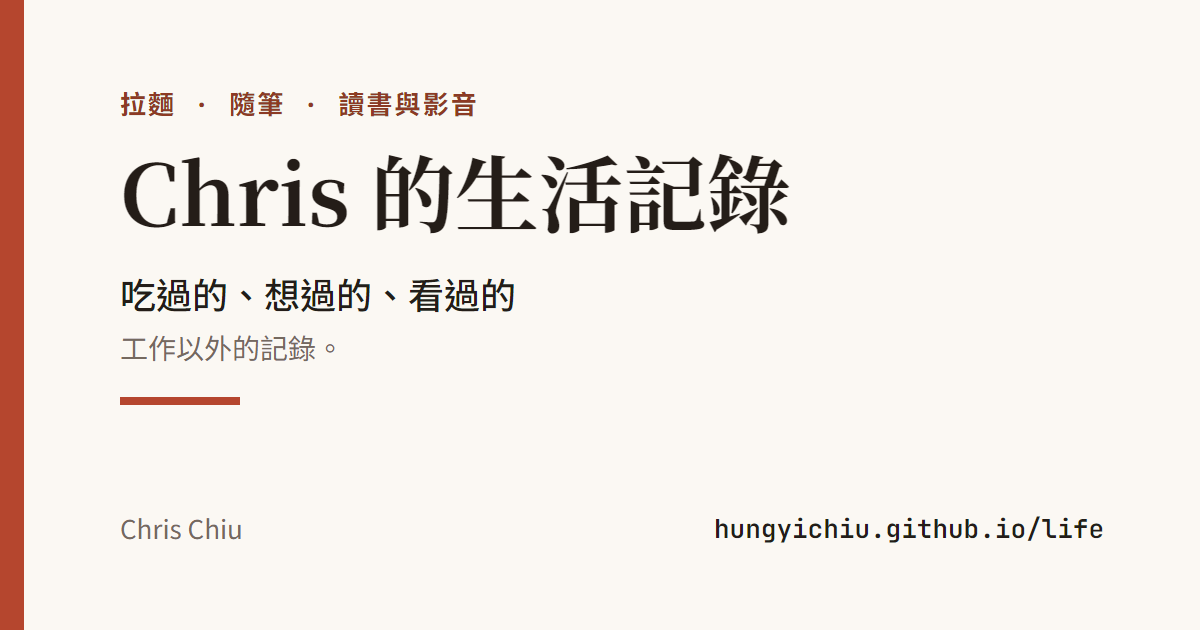
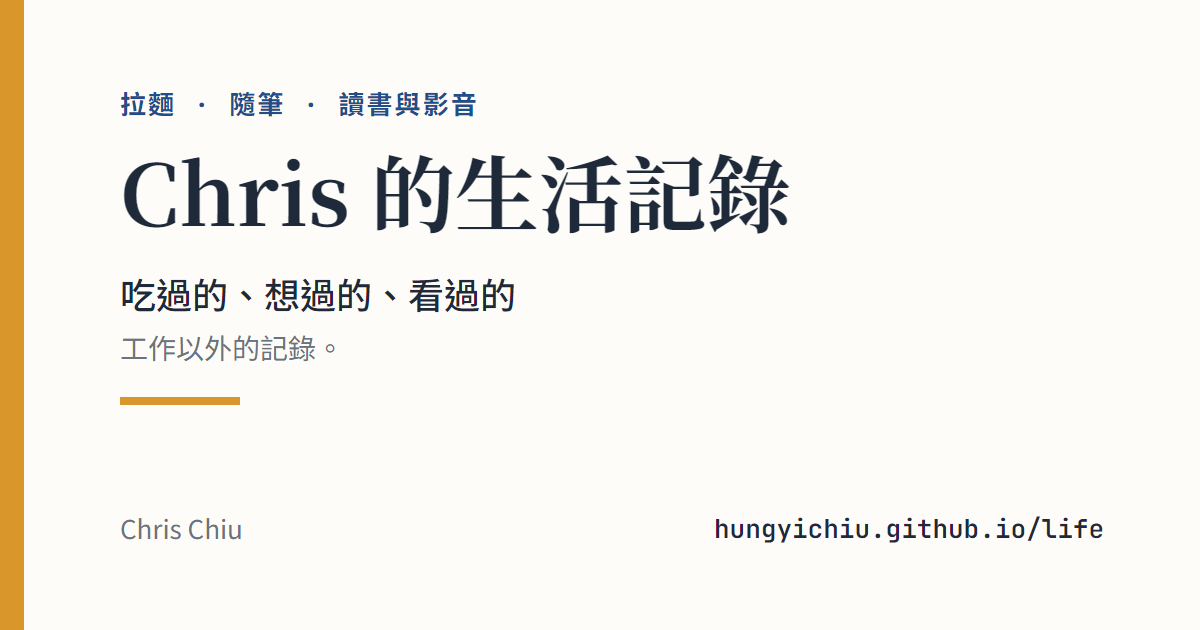
生活站配色改海軍藍＋芥末黃，預覽圖與圖示同步

diff --git a/quartz/util/ogBrand.tsx b/quartz/util/ogBrand.tsx
@@ -1,12 +1,12 @@
 import { SocialImageOptions } from "./og"
 import { getFontSpecificationName } from "./theme"
 
-// 每篇文章的預覽圖（og:image），配色對齊生活站：米白底＋磚紅 #B5462E
+// 每篇文章的預覽圖（og:image），配色對齊生活站：米白底＋海軍藍＋芥末黃
 // satori 只支援 flex 排版，有多個子元素的 div 都要 display: flex
 
-const ORANGE = "#B5462E"
-const ORANGE_TEXT = "#8C3A24"
-const GRAY = "#75695F"
+const ORANGE = "#D9962B"
+const ORANGE_TEXT = "#1E4F8A"
+const GRAY = "#6B7380"
 const SITE_URL = "hungyichiu.github.io/life"
 const AUTHOR = "Chris Chiu"
 
@@ -37,7 +37,7 @@ export const brandImage: SocialImageOptions["imageStructure"] = ({ cfg, title, d
     display: "flex",
     flexDirection: "column" as const,
     justifyContent: "space-between",
-    backgroundColor: "#FBF8F3",
+    backgroundColor: "#FDFCF8",
     borderLeft: `24px solid ${ORANGE}`,
     fontFamily: bodyFont,
   }
@@ -51,11 +51,11 @@ export const brandImage: SocialImageOptions["imageStructure"] = ({ cfg, title, d
             拉麵 · 隨筆 · 讀書與影音
           </div>
           <div
-            style={{ fontFamily: headerFont, fontWeight: 700, fontSize: 84, color: "#241D18", marginTop: 18 }}
+            style={{ fontFamily: headerFont, fontWeight: 700, fontSize: 84, color: "#1E2A3A", marginTop: 18 }}
           >
             {cfg.pageTitle}
           </div>
-          <div style={{ fontSize: 36, fontWeight: 500, color: "#241D18", marginTop: 26 }}>
+          <div style={{ fontSize: 36, fontWeight: 500, color: "#1E2A3A", marginTop: 26 }}>
             吃過的、想過的、看過的
           </div>
           <div style={{ fontSize: 28, color: GRAY, marginTop: 8 }}>工作以外的記錄。</div>
@@ -63,7 +63,7 @@ export const brandImage: SocialImageOptions["imageStructure"] = ({ cfg, title, d
         </div>
         <div style={{ display: "flex", justifyContent: "space-between", fontSize: 26, color: GRAY }}>
           <div>{AUTHOR}</div>
-          <div style={{ color: "#241D18", fontWeight: 500 }}>{SITE_URL}</div>
+          <div style={{ color: "#1E2A3A", fontWeight: 500 }}>{SITE_URL}</div>
         </div>
       </div>
     )
@@ -86,7 +86,7 @@ export const brandImage: SocialImageOptions["imageStructure"] = ({ cfg, title, d
             fontWeight: 700,
             fontSize: titleSize,
             lineHeight: 1.3,
-            color: "#241D18",
+            color: "#1E2A3A",
             marginTop: 20,
             wordBreak: "keep-all",
             lineClamp: 3,
@@ -107,7 +107,7 @@ export const brandImage: SocialImageOptions["imageStructure"] = ({ cfg, title, d
         </div>
       </div>
       <div style={{ display: "flex", justifyContent: "space-between", fontSize: 24, color: GRAY }}>
-        <div style={{ color: "#241D18", fontWeight: 500 }}>{cfg.pageTitle}</div>
+        <div style={{ color: "#1E2A3A", fontWeight: 500 }}>{cfg.pageTitle}</div>
         <div>
           {`${AUTHOR} · ${SITE_URL}`}
         </div>

diff --git a/quartz/styles/custom.scss b/quartz/styles/custom.scss
@@ -2,11 +2,14 @@
 
 // 面板色（程式碼區塊、行內 code）：Quartz 的 theme 沒有這一格，自己補
 :root {
-  --panel: #f1ece4;
+  --panel: #f3f1ea;
+  // 芥末黃：底線、引言線、分隔線用，不拿來當文字色（白底對比不夠）
+  --accent: #d9962b;
 }
 
 :root[saved-theme="dark"] {
-  --panel: #262220;
+  --panel: #1c2433;
+  --accent: #e9b25a;
 }
 
 // ---------------------------------------------------------------
@@ -85,7 +88,7 @@ article a.internal:not(.tag-link),
   line-height: inherit;
   text-decoration: underline;
   text-decoration-thickness: 1px;
-  text-decoration-color: color-mix(in srgb, var(--secondary) 60%, transparent);
+  text-decoration-color: color-mix(in srgb, var(--accent) 60%, transparent);
   text-underline-offset: 0.2em;
   transition: text-decoration-color 0.15s ease, color 0.15s ease;
 
@@ -97,7 +100,7 @@ article a.internal:not(.tag-link),
 article a.external {
   text-decoration: underline;
   text-decoration-thickness: 1px;
-  text-decoration-color: color-mix(in srgb, var(--secondary) 60%, transparent);
+  text-decoration-color: color-mix(in srgb, var(--accent) 60%, transparent);
   text-underline-offset: 0.2em;
 }
 
@@ -110,7 +113,7 @@ article a.external {
     color: var(--dark);
     font-weight: 500;
     text-decoration-thickness: 2px;
-    text-decoration-color: var(--secondary);
+    text-decoration-color: var(--accent);
 
     &:hover {
       color: var(--tertiary);
@@ -187,7 +190,7 @@ input:focus-visible {
   color: var(--dark);
   margin: -0.4rem 0 1.4rem;
   padding-left: 0.8rem;
-  border-left: 3px solid var(--secondary);
+  border-left: 3px solid var(--accent);
 
   span {
     font-family: var(--bodyFont);
@@ -217,7 +220,7 @@ input:focus-visible {
 }
 
 .home-track {
-  border-top: 2px solid var(--secondary);
+  border-top: 2px solid var(--accent);
   padding-top: 0.7rem;
 
   h3 {
@@ -244,7 +247,7 @@ input:focus-visible {
 }
 
 // ---------------------------------------------------------------
-// 淺色模式的標籤和麵包屑用深一階的磚紅，小字比較讀得清楚
+// 淺色模式的標籤和麵包屑用深一階的海軍藍
 // ---------------------------------------------------------------
 :root[saved-theme="light"] {
   .tags .tag-link,

diff --git a/quartz.config.ts b/quartz.config.ts
@@ -28,28 +28,28 @@ const config: QuartzConfig = {
         code: { name: "JetBrains Mono", weights: [400, 600], includeItalic: false },
       },
       colors: {
-        // 生活站：米白紙張底＋磚紅強調，跟技術站的黑白橘分開
+        // 生活站：米白底＋海軍藍（字、連結）＋芥末黃（線條強調，在 custom.scss 的 --accent）
         lightMode: {
-          light: "#fbf8f3",
-          lightgray: "#e6dfd5",
-          gray: "#75695f",
-          darkgray: "#3b322c",
-          dark: "#241d18",
-          secondary: "#b5462e",
-          tertiary: "#8c3a24",
-          highlight: "rgba(181, 70, 46, 0.08)",
-          textHighlight: "#f3c9a888",
+          light: "#fdfcf8",
+          lightgray: "#e4e2db",
+          gray: "#6b7380",
+          darkgray: "#2a3646",
+          dark: "#1e2a3a",
+          secondary: "#1e4f8a",
+          tertiary: "#163b68",
+          highlight: "rgba(217, 150, 43, 0.12)",
+          textHighlight: "#f5d58a88",
         },
         darkMode: {
-          light: "#1c1917",
-          lightgray: "#3a332e",
-          gray: "#a39589",
-          darkgray: "#ece4da",
-          dark: "#f6efe6",
-          secondary: "#e07a5f",
-          tertiary: "#f0a48c",
-          highlight: "rgba(224, 122, 95, 0.14)",
-          textHighlight: "#e07a5f55",
+          light: "#141b26",
+          lightgray: "#2c3646",
+          gray: "#8f99a8",
+          darkgray: "#dfe4ec",
+          dark: "#f2f4f8",
+          secondary: "#7fb0e8",
+          tertiary: "#a9c9f0",
+          highlight: "rgba(233, 178, 90, 0.12)",
+          textHighlight: "#d9962b55",
         },
       },
     },
